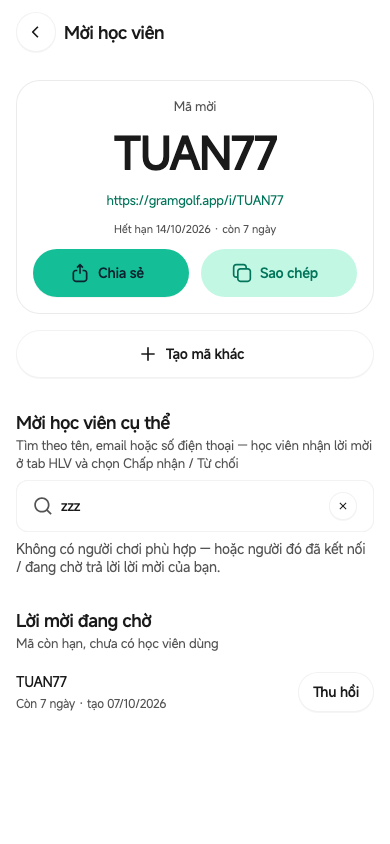
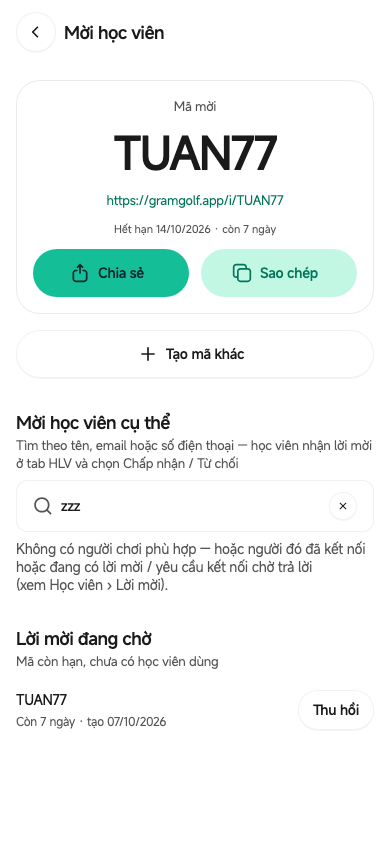
fix(invite): chạm dòng mã đang chờ hiện lại thẻ mã; câu tìm không thấy đúng cả khi học viên gửi yêu cầu
- Mời học viên › Lời mời đang chờ: chạm dòng → setCurrent(mã) → thẻ mã ở đầu màn (Chia sẻ /
  Sao chép), như dòng mã ở tab Học viên. Thêm nhãn đánh vần "Mã mời T U A N 2 4": trên web
  dòng thành điểm focus (tabindex 0) và đọc nhãn này; trên native ListItem bỏ nhãn vì dòng có
  nút "Thu hồi" (trailingInteractive, không lồng nút) — trình đọc tới mã đánh vần ở thẻ mã.
- Tìm học viên không ra: "… đã kết nối hoặc đang có lời mời / yêu cầu kết nối chờ trả lời
  (xem Học viên › Lời mời)." — câu cũ "đang chờ trả lời lời mời của bạn" sai khi chính người
  chơi gửi yêu cầu cho HLV. Cụm trong ngoặc nối NBSP để không gãy "Học | viên".

Ảnh docs/flows/F04 chụp lại (sáng + tối): f04--b-05-da-gui-loi-moi, f04--tim-khong-co.
Kiểm CDP trên Storybook 6007: f04--b-03-tao-ma chạm dòng TUAN24 → thẻ "Mã mời T U A N 2 4"
(code cũ: thẻ giữ TUAN77); f04--tim-khong-co có câu mới.

Changed region(s): [[0.0308, 0.6469, 0.8, 0.8626], [0.8, 0.8009, 0.9231, 0.8626]]

diff --git a/apps/golf/app/connect/invite.tsx b/apps/golf/app/connect/invite.tsx
@@ -117,7 +117,7 @@ export default function CreateInvite() {
               ))
             ) : (
               <Text variant="Body/Base/Regular" color="Color/Content/Neutral/Light" style={{ paddingHorizontal: t.layout('Margin-Small') }}>
-                Không có người chơi phù hợp — hoặc người đó đã kết nối / đang chờ trả lời lời mời của bạn.
+                {'Không có người chơi phù hợp — hoặc người đó đã kết nối hoặc đang có lời mời / yêu cầu kết nối chờ trả lời (xem\u00a0Học\u00a0viên\u00a0›\u00a0Lời\u00a0mời).'}
               </Text>
             ))}
         </Section>
@@ -128,6 +128,10 @@ export default function CreateInvite() {
                 key={i.code}
                 title={i.code}
                 caption={`${timeLeft(i.expiresAt, NOW)} · tạo ${formatDate(i.createdAt)}`}
+                // chạm → hiện lại thẻ mã ở đầu màn để sao chép / chia sẻ (như tab Học viên). Nhãn đánh vần: web đọc khi dòng nhận focus;
+                // native bỏ qua vì dòng có nút Thu hồi (trailingInteractive) — trình đọc tới mã đánh vần ở thẻ mã.
+                accessibilityLabel={`Mã mời ${i.code.split('').join(' ')}`}
+                onPress={() => setCurrent(i.code)}
                 trailing={
                   <Button
                     level="Tertiary"
